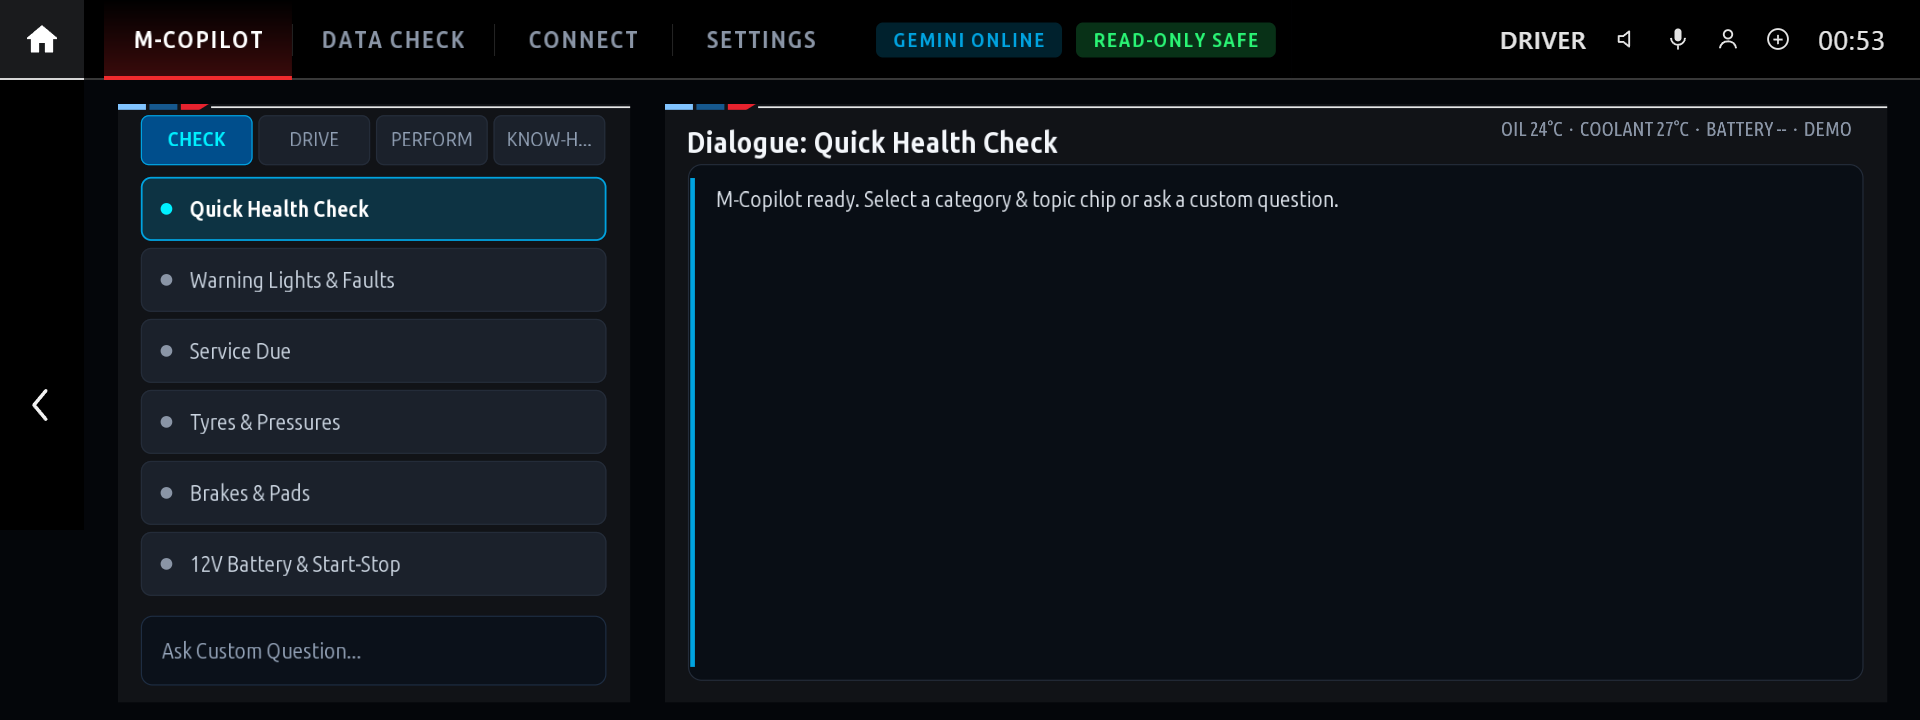
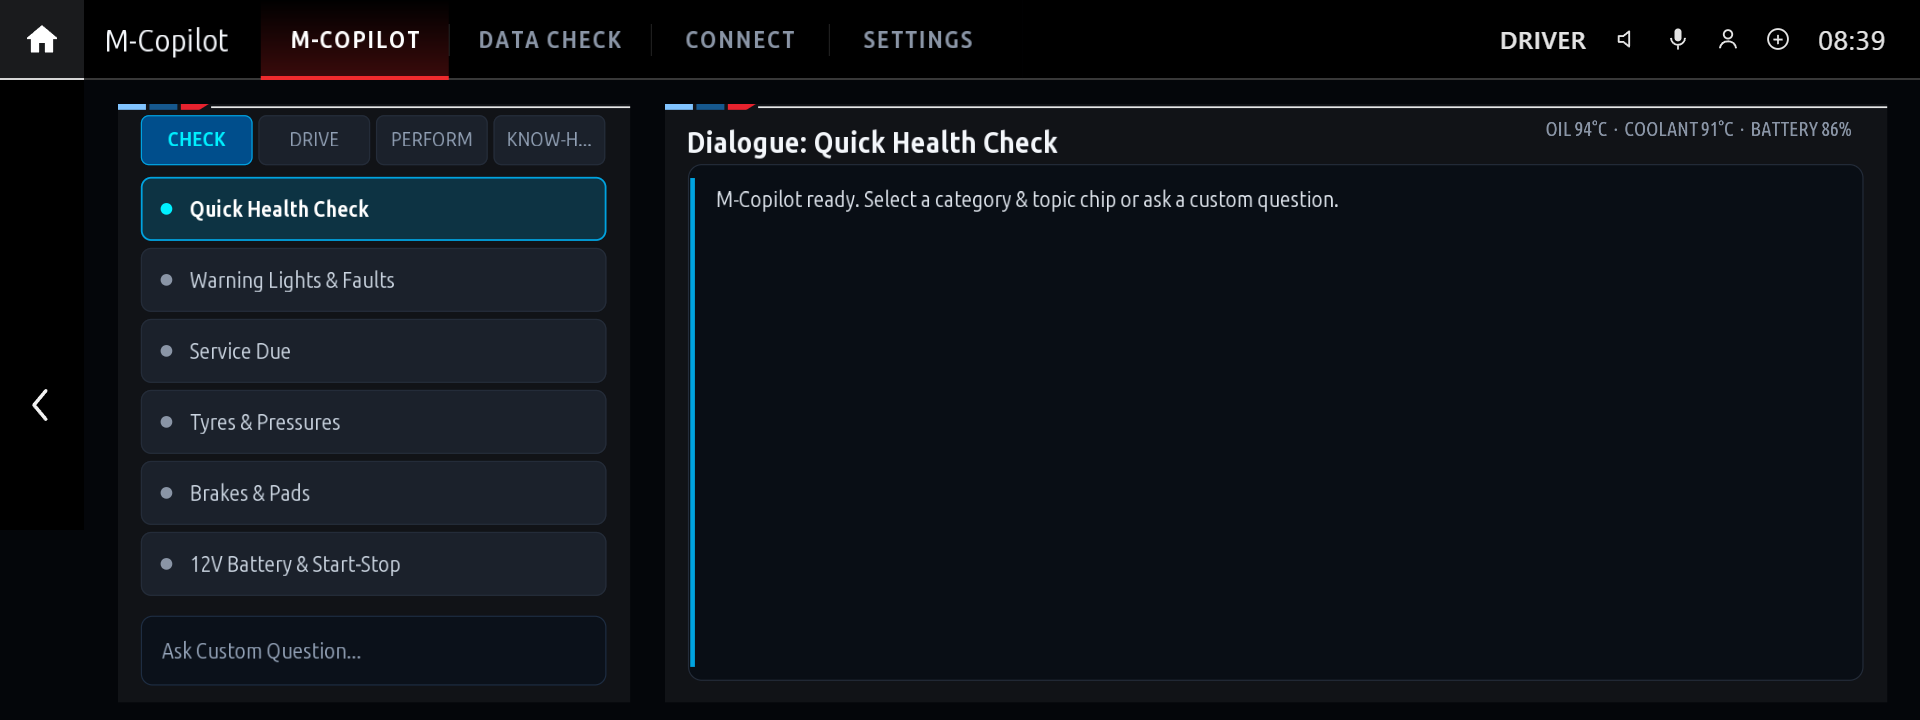
docs: screenshots without the header status chips

Changed region(s): [[0.0312, 0.0306, 0.6875, 0.1222], [0.7812, 0.1528, 0.9688, 0.2139], [0.9688, 0.0306, 1.0, 0.0611]]

diff --git a/README.md b/README.md
@@ -111,7 +111,7 @@ This repository is built on the open-source BMW iDrive 7 platform:
 * **Checked on Linux as on the car**: the built package, installed with the installer's owners and modes (`oap_<uid>`, 750) next to the Store's records (0644), run as an app's uid on the head unit's Node 8.9.4 and 8.16.2. Memory in use equal to `free`'s; each process's own memory equal to the kernel's page-table count (`smaps_rollup`) and its resident size to `ps`; a busy loop read as exactly one core, on one core of the per-core bars; the load equal to `/proc/loadavg`; a bare `node` named after its script; an app leaking 3 MB a second shown growing 90 MB in 30 s; MGU Store apps and tools named, BMW-style apps by uid; the kernel refusing it to signal any other app's process; `/proc` with `hidepid=2` / `invisible`; and 1,500 samples of 430 processes coming and going (about 16 ms each on a desktop processor, no memory growth).
 * **Foreground only, light on the head unit**: it reads `/proc` only while it is on screen, every 2 s by default (*Update every*: 1, 2, 5 or 10 s), and draws a frame only when something changed. The history starts when the app opens.
 * **Settings tab**: colour theme (M Tricolour by default, M Red, Ice White, Night Amber), grouping and the update rate.
-* On a computer without `/proc` (the browser emulator on Windows) it shows sample data, marked **SAMPLE DATA** in the header; the screenshots here are of it.
+* On a computer without `/proc` (the browser emulator on Windows) it shows sample data; the screenshots here are of it.
 
 | Processor | Processes |
 | :---: | :---: |
